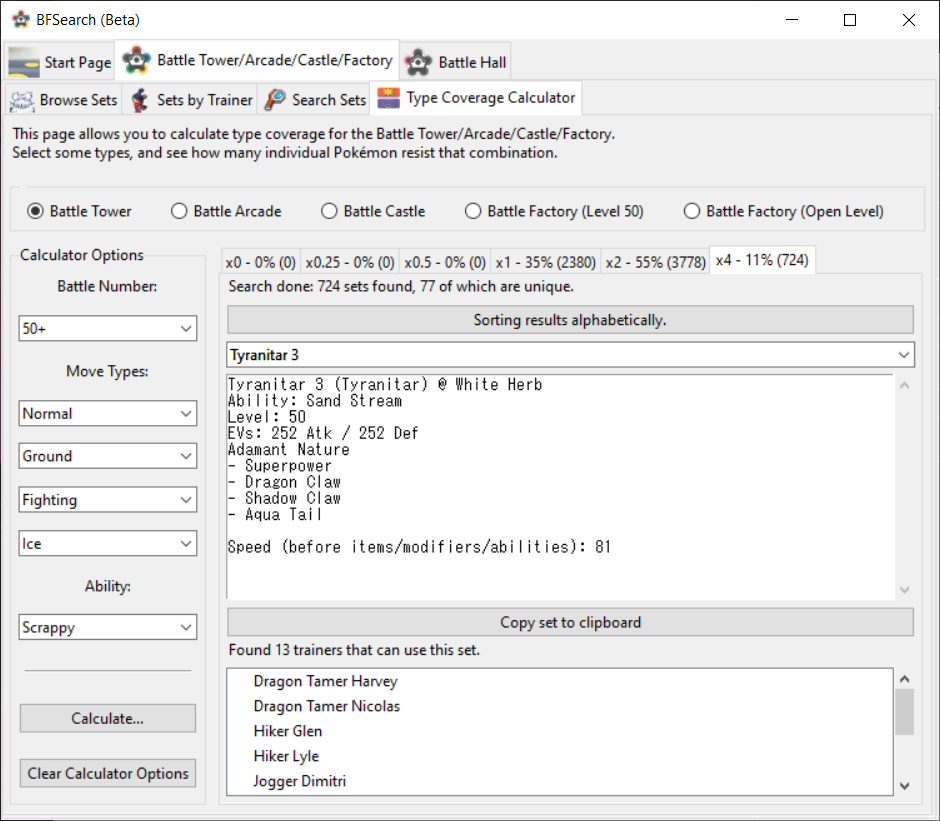
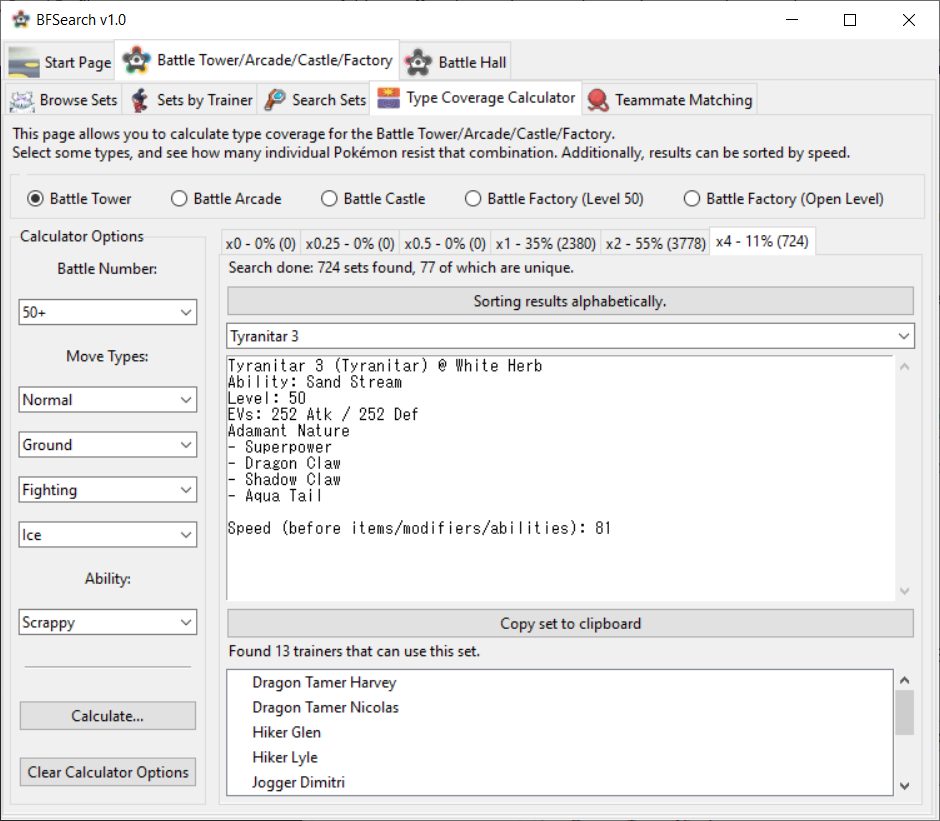
update readme

diff --git a/README.md b/README.md
@@ -14,9 +14,14 @@ Click to see a screenshot.
  - [Search through each individual Pokemon by various metrics across each facility.](https://raw.githubusercontent.com/connor135246/BFSearch/tkinter/manual/search.png)  
  
  - [Check your type coverage across each facility.](https://raw.githubusercontent.com/connor135246/BFSearch/tkinter/manual/coverage.png)  
+
+ - [Match the set of an opposing Pokemon based on what you know about its teammates.](https://raw.githubusercontent.com/connor135246/BFSearch/tkinter/manual/matching.png)  
  
  - [Learn all about the mechanics and quirks of the Battle Frontier in the help topics.](https://raw.githubusercontent.com/connor135246/BFSearch/tkinter/manual/help.png)  
 
+# Versions
+ Should work in any recent Python version. I've tested with 3.8 and 3.11.
+ No dependencies required.
 
 # Data
 
@@ -42,7 +47,3 @@ And thanks to SadisticMystic on the Battle Facilities Discord for answering my q
  - [Smogon's current Gen 4 Battle Frontier thread](https://www.smogon.com/forums/threads/4th-generation-battle-facilities-discussion-and-records.3663294/) - has many useful resources
  - [Damage calculator with all battle facility sets pre-loaded](https://eisencalc.com/)
  - [Werster's Gen 4 Battle Frontier pastes](https://pastebin.com/ZjaFtEkj)
-
-# Versions
- Python 3.8.2  
- [pipreqs.txt](pipreqs.txt)
